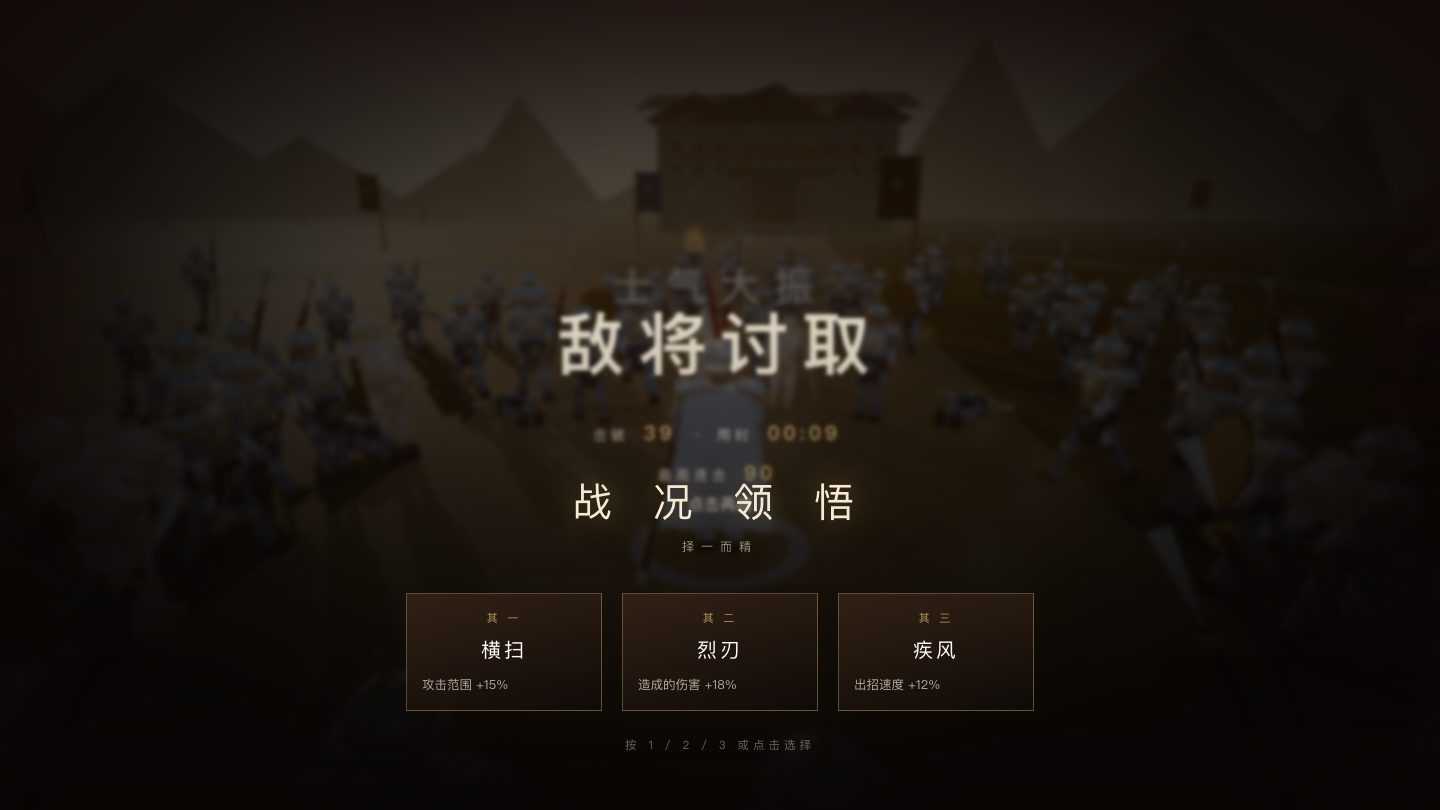
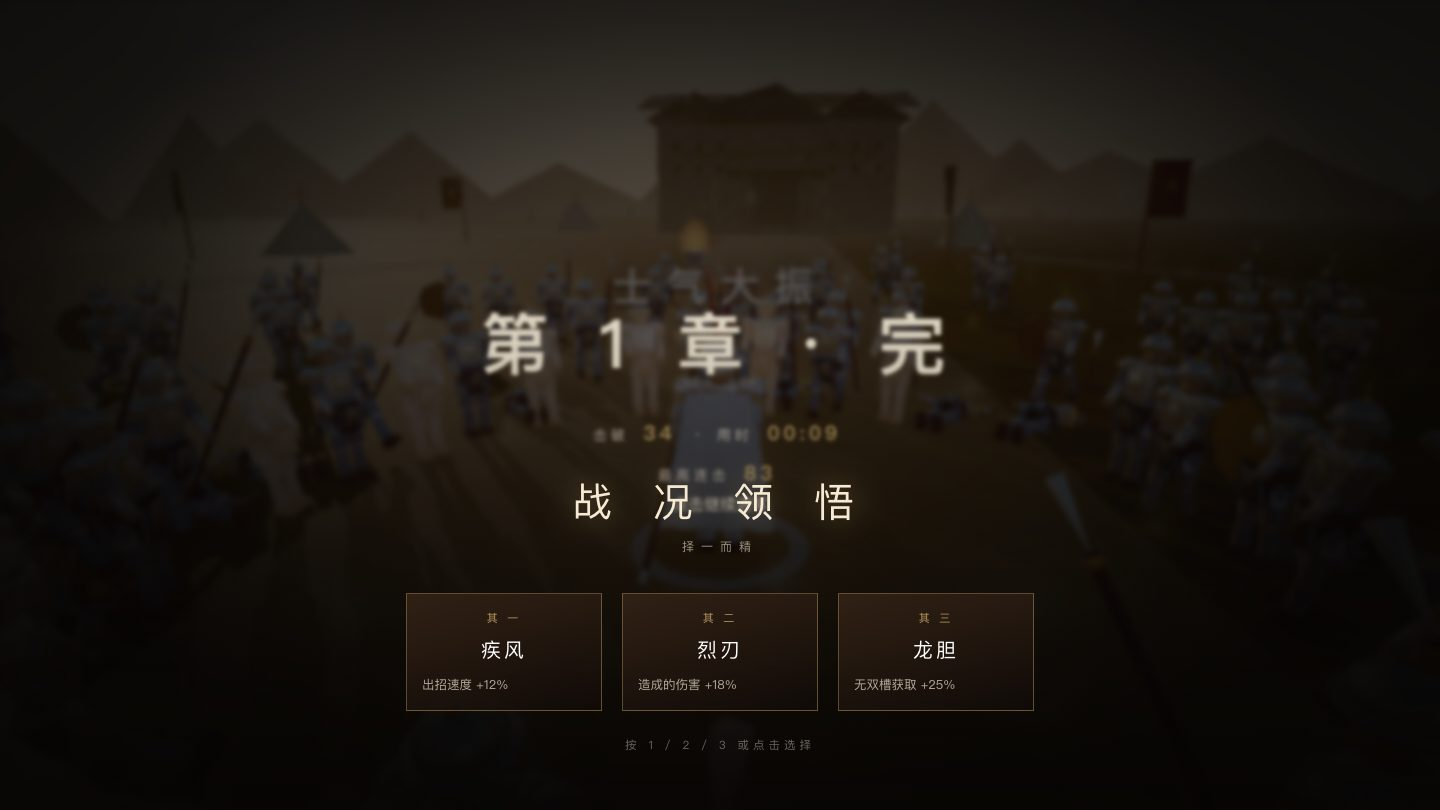
feat: 章节循环（通关后进入更强一轮，强化保留）
- G.chapter/hpMul/dmgMul；spawnEnemy 与 spawnOfficer 套用倍率
- 每章：敌军生命 x(1+0.12(N-1))、伤害 x(1+0.10(N-1))、目标同屏 60+8(N-1) 上限 96
- 结算页按胜负显示「第 N 章 · 完 / 点击继续进军」或「力尽而倒 / 点击再战」
- nextChapter：清场、玩家回满、击破清零、强化保留、华雄带新属性再临
- HUD 顶部显示章节号（第 1 章不显示，避免与标题重复）
- 实测：第1章 hpMul1.0 → 第2章 1.12/1.10/target68/华雄694血
- 验收：18/18 + 14/14

diff --git a/demos/index.html b/demos/index.html
@@ -30,6 +30,8 @@ html,body{width:100%;height:100%;overflow:hidden;background:#0a0908;color:#f0e6d
 #ko{margin-top:4px;font-size:13px;letter-spacing:3px;opacity:.75}
 #ko b{font-size:26px;color:#fff;letter-spacing:1px;vertical-align:-2px;margin:0 4px;
   font-variant-numeric:tabular-nums}
+#chapterNo{position:fixed;top:22px;right:50%;transform:translateX(50%);z-index:5;
+  font-size:13px;letter-spacing:6px;color:#e8c37a;opacity:.85;text-shadow:0 2px 8px rgba(0,0,0,.8)}
 #timer{position:absolute;top:24px;right:34px;font-size:22px;letter-spacing:2px;
   font-variant-numeric:tabular-nums;opacity:.85;text-shadow:0 2px 8px #000}
 
@@ -161,6 +163,7 @@ html,body{width:100%;height:100%;overflow:hidden;background:#0a0908;color:#f0e6d
     <div id="stage">第一章 · <b>虎牢关之战</b></div>
     <div id="ko">击破 <b id="koN">0</b></div>
   </div>
+  <div id="chapterNo"></div>
   <div id="timer">00:00</div>
   <div id="boss"><div class="nm"></div><div class="bar"><i></i><u></u></div><div id="poiseBar"><i></i><span>架势</span></div></div>
   <div id="pl">
@@ -2165,8 +2168,8 @@ function spawnEnemy(type, x, z, opt = {}) {
   const d = TYPES[type];
   s.active = true; s.wasActive = true; s.type = type;
   s.pos.set(x, 0, z); s.yaw = Math.atan2(player.pos.x - x, player.pos.z - z);
-  s.maxhp = s.hp = d.hp * (opt.hpMul || 1);
-  s.spd = d.spd * rand(.92, 1.08); s.dmg = d.dmg; s.range = d.range; s.reach = d.reach;
+  s.maxhp = s.hp = d.hp * (opt.hpMul || 1) * (G.hpMul || 1);
+  s.spd = d.spd * rand(.92, 1.08); s.dmg = d.dmg * (G.dmgMul || 1); s.range = d.range; s.reach = d.reach;
   s.scale = d.scale * (opt.scale || 1) * rand(.96, 1.04);
   s.state = 'chase'; s.t = 0; s.atkP = 0; s.cool = rand(.2, 1.4); s.phase = rand(0, TAU);
   s.flash = 0; s.tilt = 0; s.dead = false; s.deadT = 0; s.spawnT = 0;
@@ -3328,6 +3331,8 @@ function updateHUD(dt) {
   UI.musouF.style.transform = `scaleX(${mk})`;
   UI.musou.classList.toggle('full', mk >= 0.999);
   UI.ko.textContent = player.ko;
+  const ch = document.getElementById('chapterNo');
+  if (ch) ch.textContent = G.chapter > 1 ? `第 ${G.chapter} 章` : '';
   const pk = UI.poise.children;
   if (pk.length !== player.maxPoise) {
     UI.poise.innerHTML = '';
@@ -3364,7 +3369,7 @@ function updateHUD(dt) {
 /* ============================================================
    11. 关卡导演
    ============================================================ */
-const G = { state: 'menu', time: 0, target: 60, spawnT: 0, boss: null, boss2Spawned: false, boss2Up: false, slow: 0, ended: false };
+const G = { state: 'menu', chapter: 1, hpMul: 1, dmgMul: 1, time: 0, target: 60, spawnT: 0, boss: null, boss2Spawned: false, boss2Up: false, slow: 0, ended: false };
 
 const UPGRADES = [
   { id: 'edge',  n: '烈刃', d: '造成的伤害 +18%',        apply: () => { player.dmgMul *= 1.18; } },
@@ -3457,7 +3462,7 @@ function spawnOfficer(name, hp, scale, tint) {
     officer: true, name, hpMul: 1, scale, tint
   });
   if (!s) return;
-  s.maxhp = s.hp = hp;
+  s.maxhp = s.hp = hp * (G.hpMul || 1);
   s.spd = TYPES.officer.spd; s.dmg = TYPES.officer.dmg;
   s.range = TYPES.officer.range; s.reach = TYPES.officer.reach;
   /* 敌将专属技能：华雄横扫 / 吕布冲锋 */
@@ -3534,7 +3539,8 @@ function showResult(win) {
   if (win) { SFX.gong(); setTimeout(() => SFX.gong(), 300); }
   const r = $('#result');
   r.classList.remove('hide');
-  r.querySelector('h2').textContent = win ? '敌将讨取' : '力尽而倒';
+  r.querySelector('h2').textContent = win ? `第 ${G.chapter} 章 · 完` : '力尽而倒';
+  r.querySelector('.go').textContent = win ? '点击继续进军' : '点击再战';
   const t = Math.floor(G.time);
   r.querySelector('.stat').innerHTML =
     `击破 <b>${player.ko}</b> ・ 用时 <b>${String((t / 60) | 0).padStart(2, '0')}:${String(t % 60).padStart(2, '0')}</b><br>` +
@@ -3553,7 +3559,33 @@ function startGame() {
   lockPointer();
 }
 $('#title').addEventListener('click', startGame);
-$('#result').addEventListener('click', () => { $('#result').classList.add('hide'); startGame(); });
+$('#result').addEventListener('click', () => {
+  const win = G.state === 'result' && G.ended && player.hp > 0;
+  $('#result').classList.add('hide');
+  if (win) nextChapter(); else startGame();
+});
+
+/* 章节推进：敌将强度与目标规模递增，玩家回满并保留强化 */
+function nextChapter() {
+  G.chapter++;
+  G.hpMul = 1 + 0.12 * (G.chapter - 1);
+  G.dmgMul = 1 + 0.10 * (G.chapter - 1);
+  G.target = Math.min(96, 60 + 8 * (G.chapter - 1));
+  G.time = 0; G.boss = null; G.boss2Spawned = false; G.boss2Up = false; G.ended = false;
+  G.slow = 0; G.spawnT = 0; G.lastKm = 0; G.maxCombo = 0;
+  for (const s of E) { s.active = false; s.dead = true; s.hp = 0; if (s.rig) { releaseRig(s.rig); s.rig = null; } }
+  ARROWS.forEach(a => { a.active = false; });
+  player.hp = player.maxhp; player.musou = 0; player.ko = 0; player.combo = 0;
+  player.dead = false; player.hurtT = 0; player.invuln = 1.2; player.state = 'idle';
+  player.pos.set(0, 0, 12); player.vel.set(0, 0, 0); player.yaw = Math.PI;
+  player.airY = 0; player.vy = 0; player.airAtk = false;
+  PRESSURE.reset();
+  G.state = 'play';
+  UI.hud.classList.add('on');
+  callout(`第 ${G.chapter} 章`, '敌 军 再 来');
+  SFX.gong();
+  setTimeout(() => { if (G.state === 'play' && !G.boss) { callout('华雄', '敌 将 出 阵'); spawnOfficer('华雄', 620, 1.30, 0xd8b25a); } }, 1500);
+}
 
 /* ============================================================
    12. 主循环

diff --git a/README.md b/README.md
@@ -55,6 +55,9 @@ cd demos && python3 -m http.server 8000
   背后/侧翼攻击不受减伤——所以绕背或用范围技是正解。
 - **围攻阵型**：每个杂兵出生时分配角色——刀兵**前排**（正面直推）、枪兵**侧翼**（中距离带切向分量，弧线绕到侧面再收拢）、
   弓兵**后排**（保持 12 m，过近后撤）。实测 40 人 5 s 后包围均匀度 **0.077**（1.0 = 全堆一侧，0 = 均匀环绕）。
+- **章节循环**：击败华雄→吕布后进入结算（`第 N 章 · 完`），点击"继续进军"进入下一章——
+  敌军生命 ×(1+0.12·(N−1))、伤害 ×(1+0.10·(N−1))、目标同屏 60→68→76→…（上限 96），
+  玩家回满、击破数清零但**强化保留**，华雄以强化后的属性再临。HUD 顶部显示当前章节。
 - **动态难度**：每 2 s 依据表现评估"敌军士气"压力值 `v ∈ [0,1]`（连续高击破且血量健康 → 上升；濒死 → 快速下降），
   只调节**节奏**：刷兵间隔 ×(1.30→0.75)、齐射间隔 ×(1.28→0.80)、敌将技能冷却 ×(1.35→0.75)。
   **不动伤害数值**——否则会破坏验收基线（站桩掉血断言）。跨档时喊话"敌军压下/敌军迟疑"。
